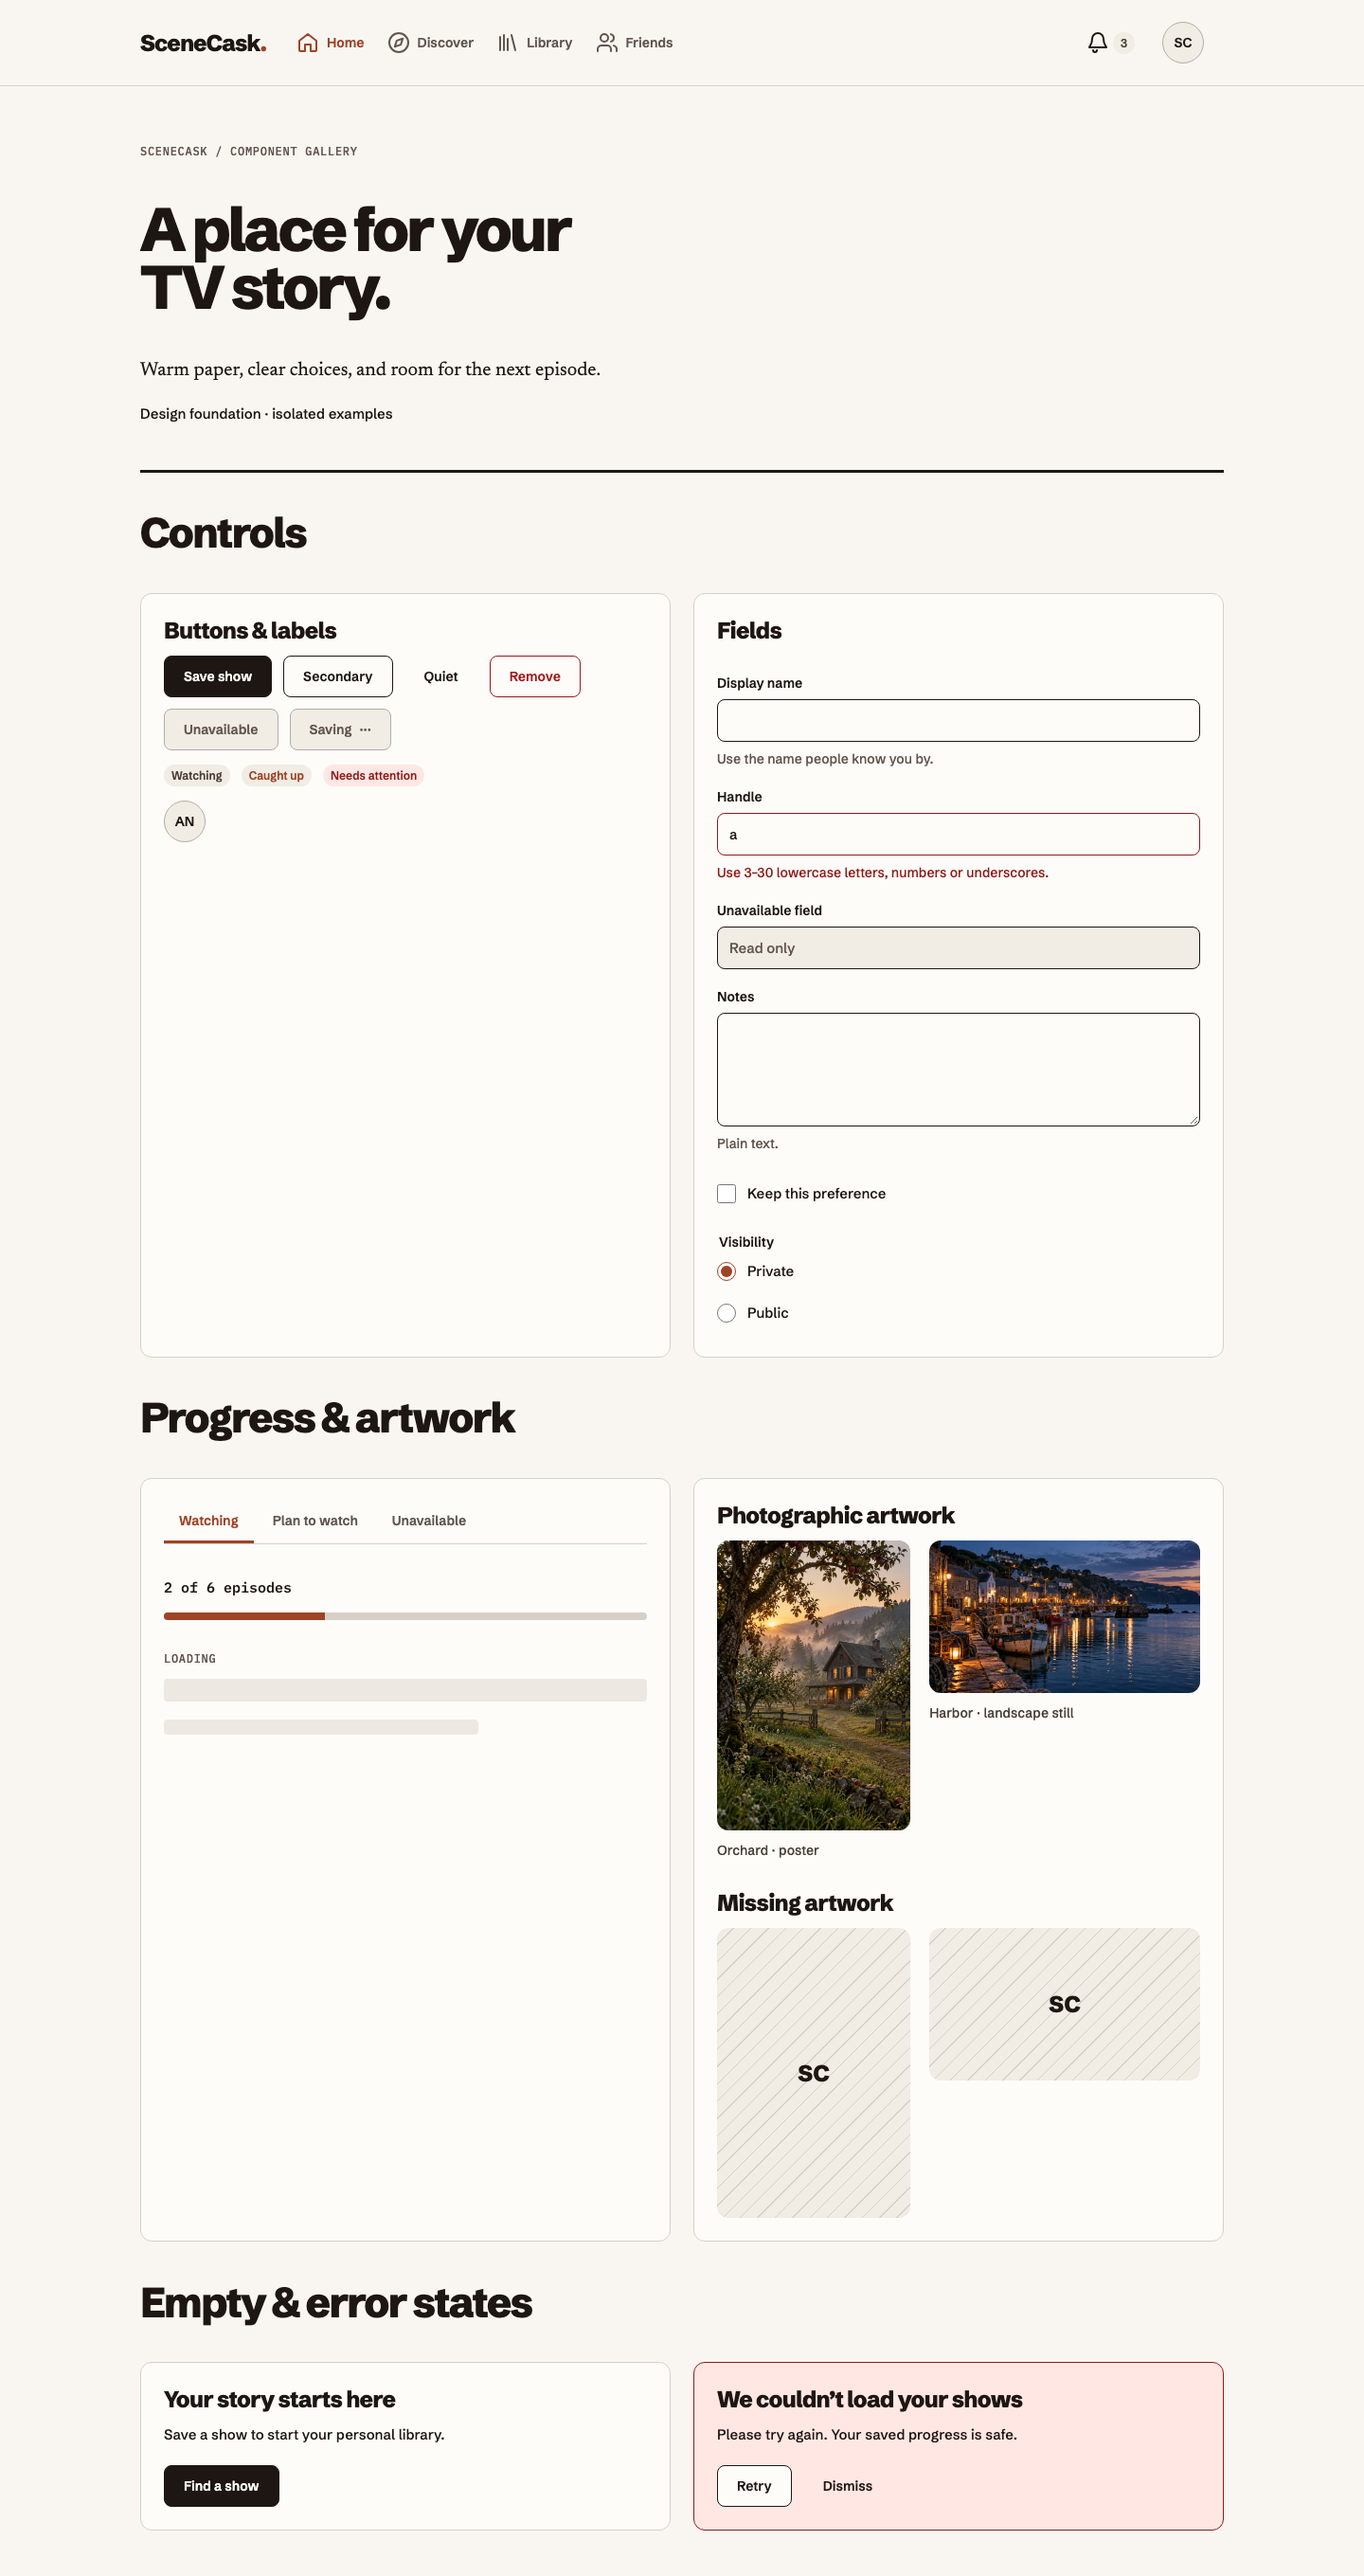
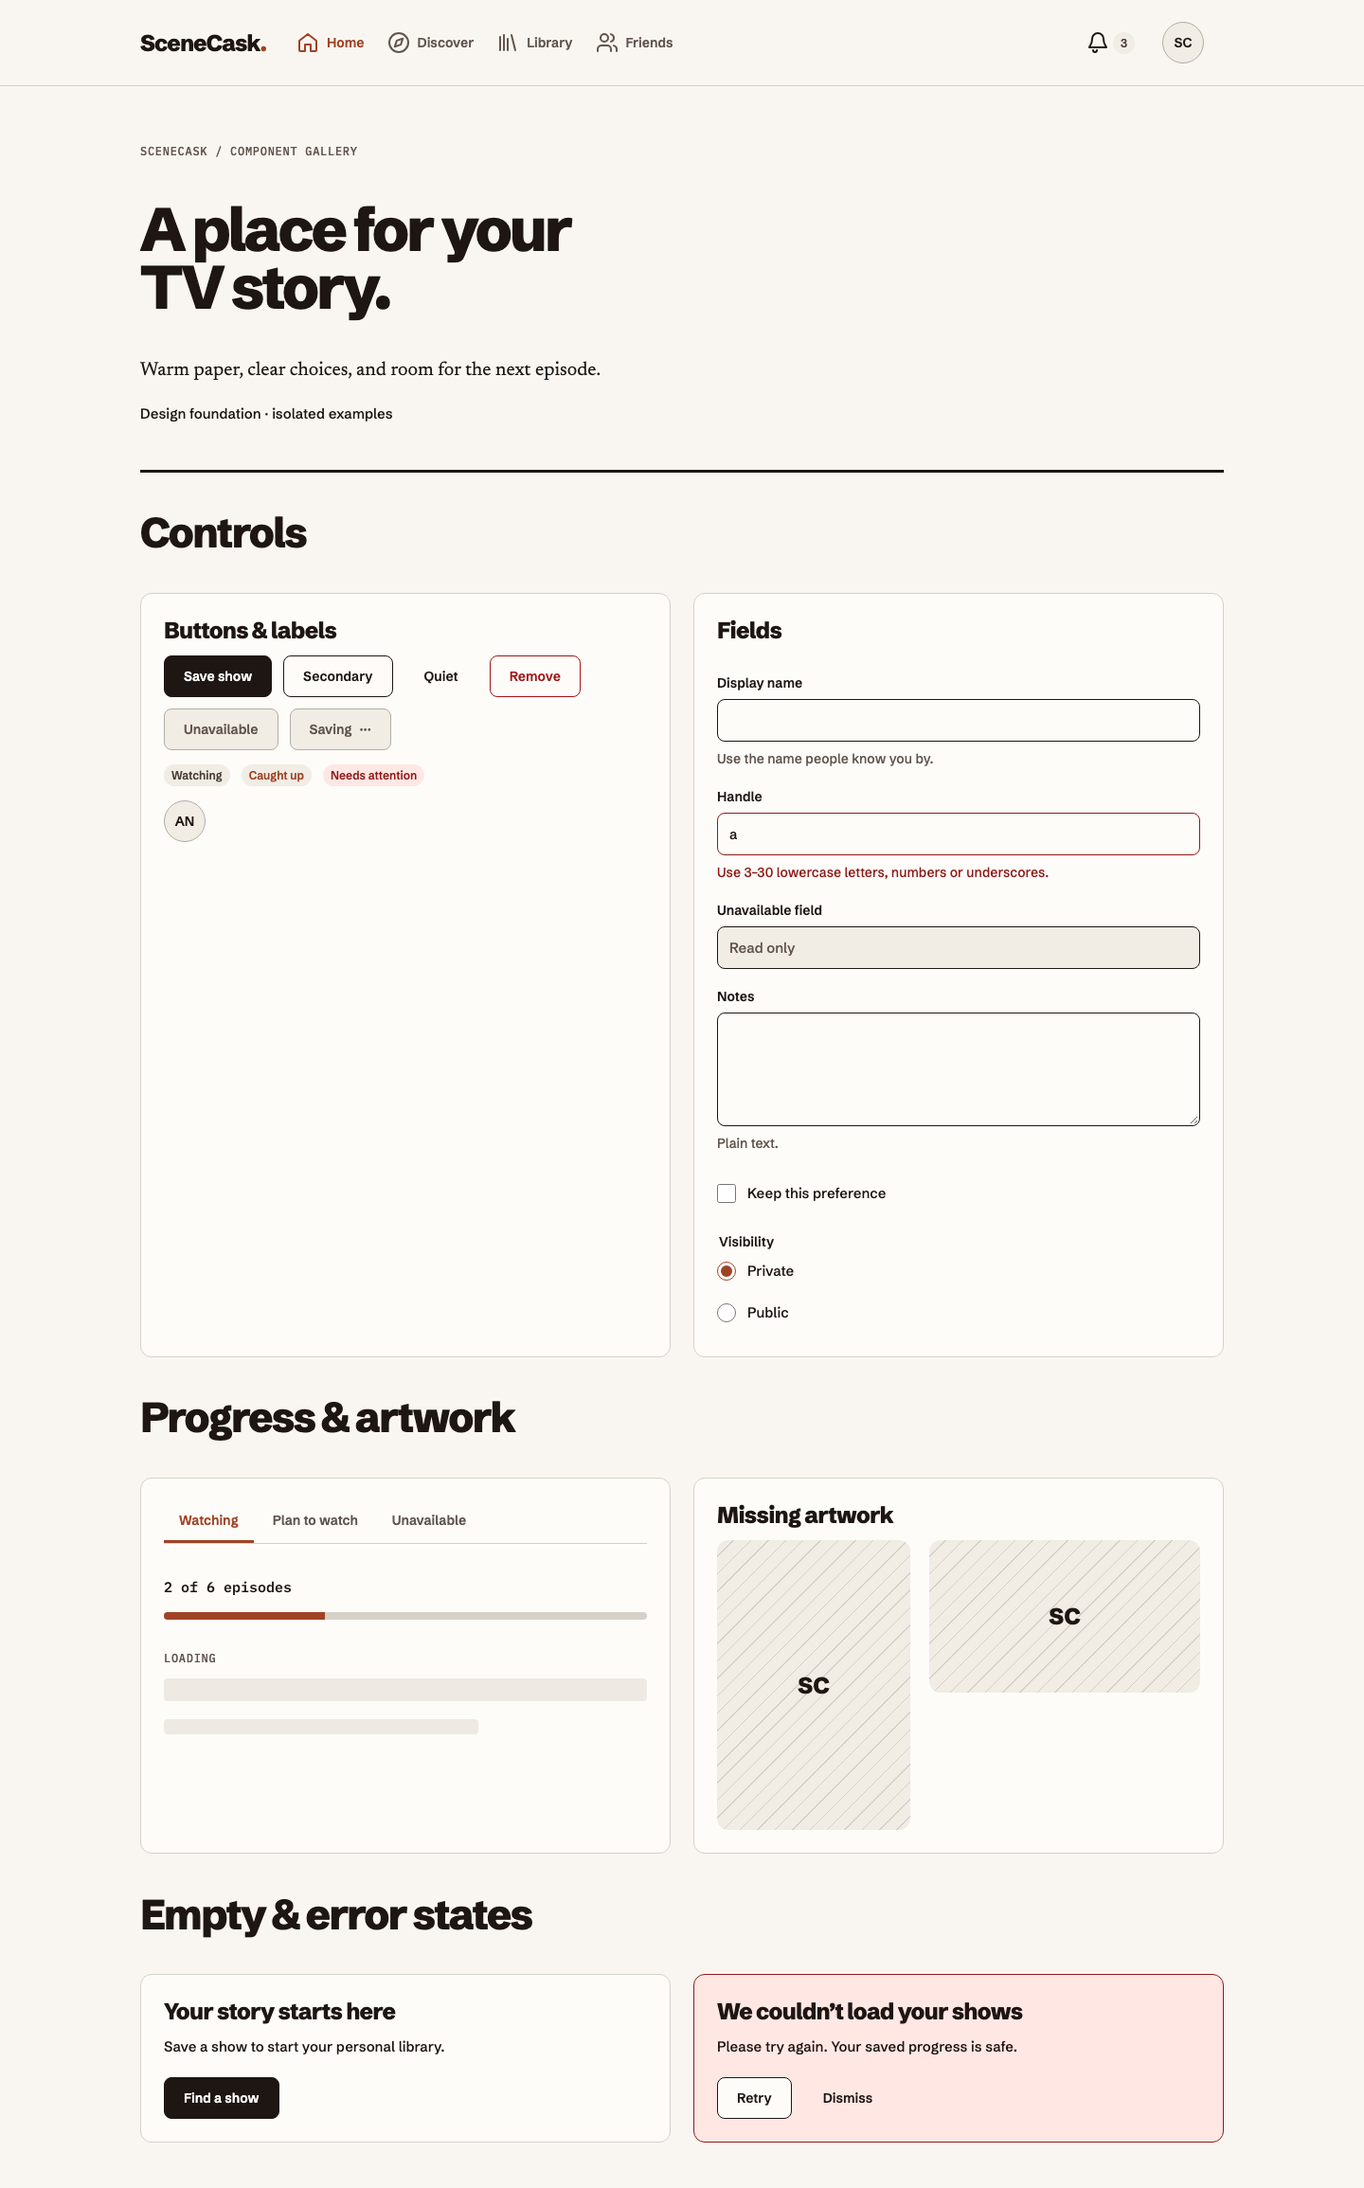
revert(ui): remove photographic demo assets

diff --git a/apps/web/src/components/ui/basic/foundation.spec.ts b/apps/web/src/components/ui/basic/foundation.spec.ts
@@ -32,16 +32,6 @@ for (const width of [320, 390, 859, 860, 1440]) {
       expect(box!.height).toBeGreaterThanOrEqual(44);
     }
     await page.evaluate(() => document.fonts.ready);
-    for (const photo of await page
-      .getByTestId("gallery-photos")
-      .locator("img")
-      .all()) {
-      await expect
-        .poll(() =>
-          photo.evaluate((el) => (el as HTMLImageElement).naturalWidth),
-        )
-        .toBeGreaterThan(0);
-    }
     if (width === 390 || width === 1440)
       await page.screenshot({
         path: `test-results/r04/gallery-${width}.png`,
@@ -122,10 +112,10 @@ test("keyboard, fields, disabled buttons and persistent errors", async ({
   await expect(page.locator(".sc-error").getByRole("alert")).toHaveCount(0);
 });
 
-test("fallback ratios, local fonts and reduced motion", async ({ page, baseURL }) => {
+test("fallback ratios, local fonts and reduced motion", async ({ page }) => {
   const external: string[] = [];
   page.on("request", (request) => {
-    if (!request.url().startsWith(baseURL!))
+    if (!request.url().startsWith("http://127.0.0.1:3104"))
       external.push(new URL(request.url()).host);
   });
   await page.emulateMedia({ reducedMotion: "reduce" });
@@ -134,7 +124,7 @@ test("fallback ratios, local fonts and reduced motion", async ({ page, baseURL }
     [".sc-art-poster", 2 / 3],
     [".sc-art-still", 16 / 9],
   ] as const) {
-    const box = await page.locator(selector).first().boundingBox();
+    const box = await page.locator(selector).boundingBox();
     expect(box!.width / box!.height).toBeCloseTo(ratio, 2);
   }
   expect(
@@ -539,36 +529,4 @@ test("copied TS side-effect/re-export/dynamic modules resolve in the gallery", a
   await expect(page.getByLabel("Copied module")).toHaveText(
     "Copied dynamic module loaded",
   );
-});
-
-test("bundled gallery photos load with captions and preserve poster/still geometry", async ({
-  page,
-}) => {
-  await page.goto("/");
-  const photos = page.getByTestId("gallery-photos");
-  await expect(photos.locator("img")).toHaveCount(2);
-  await expect(photos.getByText("Orchard · poster")).toBeVisible();
-  await expect(photos.getByText("Harbor · landscape still")).toBeVisible();
-  for (const [alt, ratio] of [
-    ["A farmhouse in a misty orchard at sunrise", 2 / 3],
-    ["Fishing boats and lantern-lit houses beside a harbor at dusk", 16 / 9],
-  ] as const) {
-    const image = photos.getByRole("img", { name: alt });
-    await expect
-      .poll(() => image.evaluate((el) => (el as HTMLImageElement).naturalWidth))
-      .toBeGreaterThan(0);
-    const box = await image.boundingBox();
-    expect(box!.width / box!.height).toBeCloseTo(ratio, 2);
-    expect(await image.evaluate((el) => getComputedStyle(el).objectFit)).toBe(
-      "cover",
-    );
-    const src = await image.getAttribute("src");
-    expect(src).toMatch(/^\/_next\/static\/media\//);
-    const response = await page.request.get(src!);
-    expect(response.status()).toBe(200);
-    expect(response.headers()["content-type"]).toContain("image/webp");
-  }
-  await expect(
-    page.getByRole("img", { name: "Poster unavailable" }),
-  ).toBeVisible();
 });

diff --git a/apps/web/src/components/ui/basic/gallery.tsx b/apps/web/src/components/ui/basic/gallery.tsx
@@ -1,10 +1,7 @@
 "use client";
 import { useState } from "react";
-import orchardPoster from "./artwork/orchard-poster.webp";
-import harborStill from "./artwork/harbor-still.webp";
 import { AppShell } from "../../shell";
 import {
-  ArtworkFigure,
   Avatar,
   Badge,
   Button,
@@ -148,20 +145,6 @@ export function ComponentGallery({
             <Skeleton label="Loading progress" width="65%" height={16} />
           </div>
           <div className="sc-gallery-card">
-            <h3>Photographic artwork</h3>
-            <div className="sc-gallery-art" data-testid="gallery-photos">
-              <ArtworkFigure
-                src={orchardPoster.src}
-                alt="A farmhouse in a misty orchard at sunrise"
-                caption="Orchard · poster"
-              />
-              <ArtworkFigure
-                src={harborStill.src}
-                aspect="still"
-                alt="Fishing boats and lantern-lit houses beside a harbor at dusk"
-                caption="Harbor · landscape still"
-              />
-            </div>
             <h3>Missing artwork</h3>
             <div className="sc-gallery-art">
               <Poster alt="Poster unavailable" />

diff --git a/apps/web/src/styles/foundation.css b/apps/web/src/styles/foundation.css
@@ -468,16 +468,3 @@ textarea.sc-input {
     scroll-behavior: auto !important;
   }
 }
-
-.sc-art-figure {
-  margin: 0;
-  min-width: 0;
-}
-.sc-art-figure figcaption {
-  margin-block-start: var(--sc-space-2);
-  font-size: var(--sc-type-label-size);
-  color: var(--sc-color-ink-secondary);
-}
-.sc-gallery-art + h3 {
-  margin-block-start: var(--sc-space-6);
-}

diff --git a/apps/web/src/components/ui/basic/index.ts b/apps/web/src/components/ui/basic/index.ts
@@ -12,4 +12,3 @@ export * from "./skeleton";
 export * from "./empty-state";
 export * from "./error-state";
 export * from "./field";
-export * from "./artwork-figure";

diff --git a/apps/web/src/components/ui/basic/verification.md b/apps/web/src/components/ui/basic/verification.md
@@ -17,7 +17,7 @@ styles, basic primitives, shell, verification files, and the manifest/CI wiring 
 | `yarn api:check` | Pass: OpenAPI validated, 20 contract/client checks, generated client and operation mapping current. No API changes in R04. |
 | `yarn test`, with local `.env` loaded by Node and inherited by Yarn | Pass: 12 Rust tests, including real PostgreSQL migrations/constraints/lifecycle and health/SMTP tests. |
 | `yarn test:e2e`, with the same local environment | Pass: 6 existing browser tests including same-origin real API/PostgreSQL health checks. This proves the foundation smoke flow, not future account/tracking flows. |
-| `yarn test:ui` | Pass: 27 Chromium component/gallery checks using the pinned workspace axe dependency. |
+| `yarn test:ui` | Pass: 26 Chromium component/gallery checks using the pinned workspace axe dependency. |
 | Gallery production build (`node apps/web/src/components/ui/basic/gallery-server.mjs --build`) | Pass: all gallery fixtures, including SVG hydration and server primitives, compile and render with bundled assets. |
 
 The gallery suite measured no horizontal document overflow at 320, 390, 859,
@@ -69,25 +69,9 @@ Intl.Segmenter compatibility with complete emoji; parent notification on invalid
 Tabs selection and all-disabled focus/content; explicit retryKey recovery of an
 unchanged image URL; radio value updates before and after attaching a callback;
 and a copied `.ts` helper exercising side-effect, re-export and dynamic imports.
-All 27 Chromium tests and 8 Node tests pass. Lint, typecheck, immutable install,
+All 26 Chromium tests and 8 Node tests pass. Lint, typecheck, immutable install,
 web/Rust build and isolated gallery build were rerun. API/PostgreSQL/root browser
 evidence above is retained from the preceding revision, with those modules unchanged.
-
-Two original photographic assets were generated with the built-in image_gen tool
-and bundled as WebP (about 380 KB total): a portrait orchard poster and a landscape
-harbor still. `ArtworkFigure` composes the existing Poster with semantic captions.
-An additional browser check verifies decoded images, local asset responses,
-correct 2:3/16:9 crop geometry and retained fallback examples. All 27 browser
-checks pass; axe still reports zero violations at mobile/desktop sizes. Lint,
-typecheck, design checks and production builds were rerun for this addition.
-Prompts and asset provenance are recorded in [artwork/README.md](artwork/README.md).
-
-
-Photo validation was repeated in a clean detached checkout of the committed PR
-with only the photo patch applied, after concurrent unrelated edits appeared in
-the shared workspace. The shared checkout reported three regressions from those
-Avatar/Tabs edits; they were preserved and excluded from the photo commit. The
-isolated result is the evidence for the photo change.
 
 ## Manual visual review
 

diff --git a/apps/web/src/components/ui/basic/README.md b/apps/web/src/components/ui/basic/README.md
@@ -30,7 +30,6 @@ The shell includes a skip link and focusable main landmark. Mobile navigation is
 | Tabs | Controlled value/onChange, group label, unique value/label/content options. Empty/stale/disabled selections render the first enabled tab/panel and notify the parent through onChange. When all tabs are disabled, the tablist remains focusable, an unavailable status appears, and the panel matching the controlled value stays visible. Roving focus, arrow wrap, Home/End, disabled option skipping, and linked panels. |
 | Progress | Required label/value; optional max (default 100). Bounds invalid/nonfinite values without displaying false progress. |
 | Poster | Authorized src or null, required safe alt (empty for decorative art), poster/still aspect, optional className. Reserved 2:3/16:9 geometry, striped fallback on missing/failed images including failures before hydration, decode validation for zero intrinsic width SVGs, recovery when src changes or the caller changes retryKey to retry an unchanged URL. |
-| ArtworkFigure | Poster props plus a caption; reusable semantic figure/figcaption wrapper. |
 | Avatar | Initials and accessible label; Lazy Intl.Segmenter with a pinned Graphemer fallback when unavailable, preserving full graphemes, fixed 44px, no uploads. |
 | Skeleton | Accessible loading label and optional width/height; reduced motion disables pulse. |
 | EmptyState | Title, optional children/action. |
@@ -81,7 +80,7 @@ values remain unchanged. Unitless weight/line-height values are validated separa
 
 `ComponentGallery` exports isolated examples. Its separate Next.js verification
 app lives under this module, with beta `/`, alpha `/alpha`, and an artwork test
-fixture `/art`. The gallery includes two bundled photographic examples alongside the unavailable-artwork states, composed with `ArtworkFigure`. Prompts and provenance are in [artwork/README.md](artwork/README.md). None of these routes belongs to the production application.
+fixture `/art`. None of these routes belongs to the production application.
 
 From the repository root:
 
